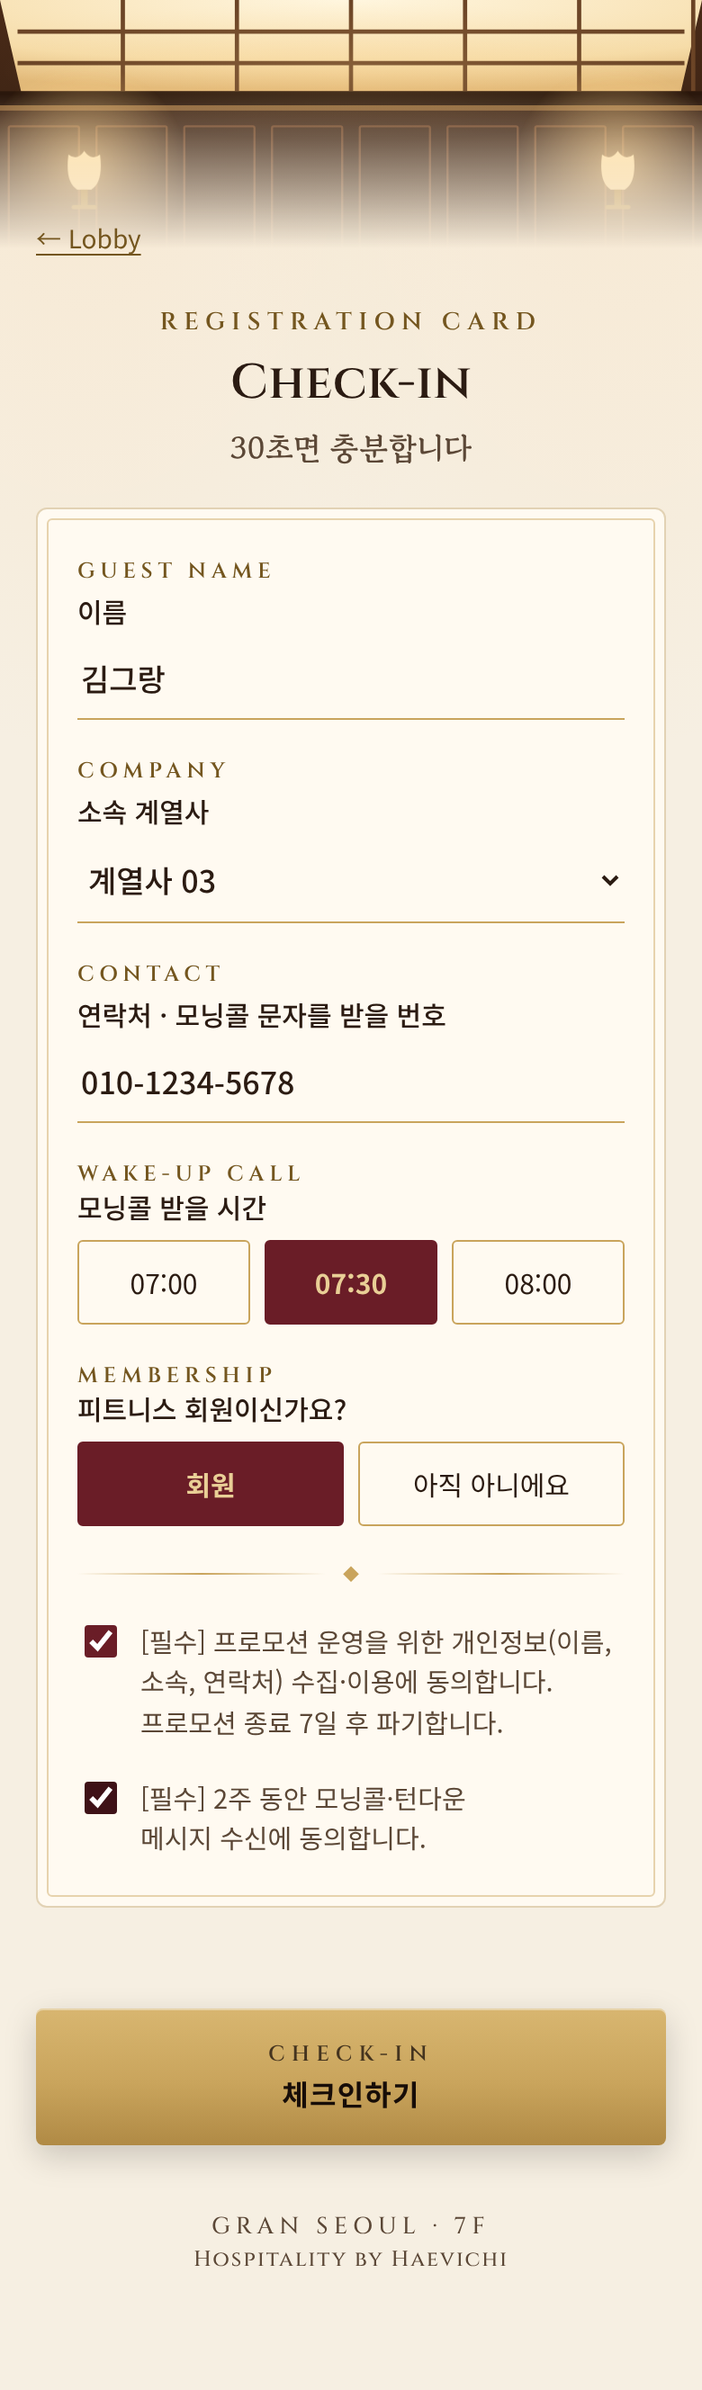
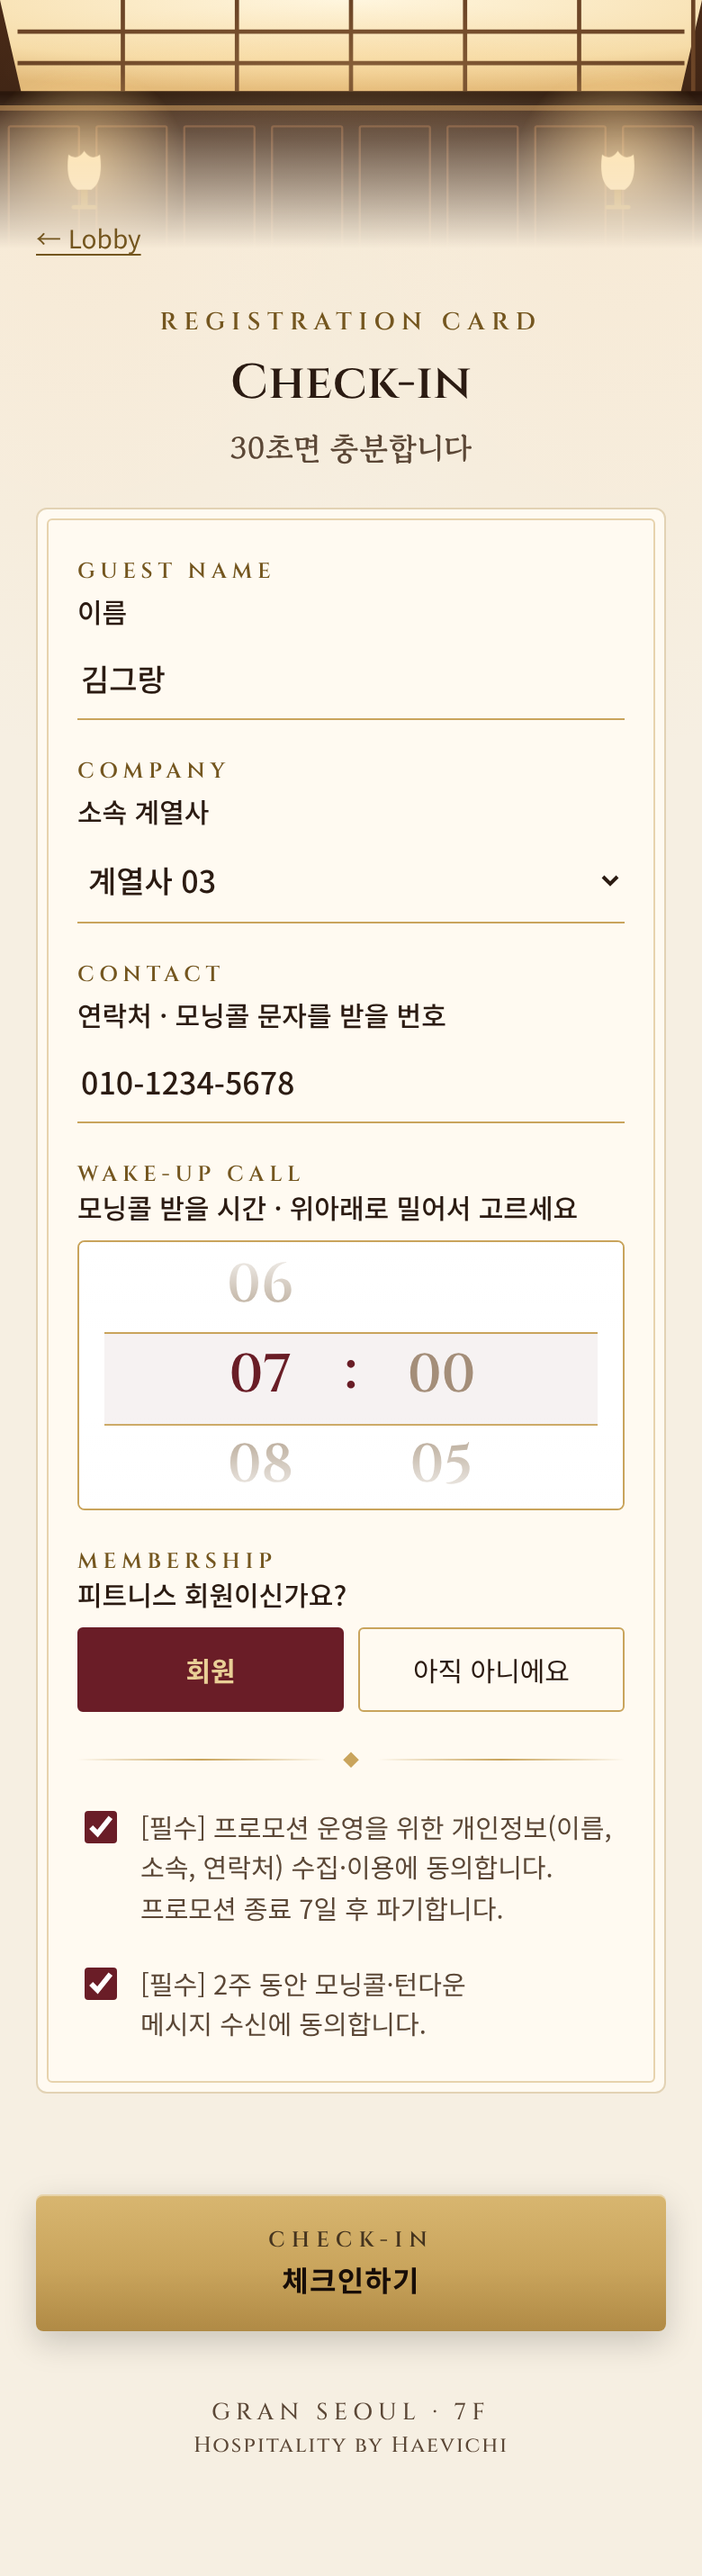
5-minute wake-up wheel, 2 seats per Morning Reset, brighter dark-page text
- Hour/minute scroll wheel 05:00-10:00 in 5-minute steps (default 07:00)
- Morning Reset capacity 2 per session, shown in the description
- Brighter, larger text on key card, check-in, Merci and player screens

Claude-Session: https://claude.ai/code/session_011z6wvs2Gb5um8vyCmLK585

diff --git a/index.html b/index.html
@@ -82,7 +82,7 @@ p,h1,h2,h3,label,.status{text-wrap:balance}
 .tag{display:inline-block;font-family:var(--en);font-size:12px;letter-spacing:.2em;text-transform:uppercase;font-weight:600;color:var(--brass-dark)}
 footer{text-align:center;font-family:var(--en);font-size:13px;color:var(--muted);padding:36px 0 8px;letter-spacing:.24em;text-transform:uppercase}
 footer i{font-style:normal;text-transform:none;letter-spacing:.08em;font-size:12px}
-.dark footer{color:rgba(201,164,92,.7)}
+.dark footer{color:var(--brass)}
 .banner{background:#fff3d9;border:1px solid #ecd6a6;border-radius:4px;padding:10px 14px;font-size:14px;color:#6b4a12}
 
 /* 아이보리 화면의 호텔 조명 */
@@ -106,7 +106,7 @@ body.dark #ceiling{display:none}
 .lift-ind .box span{color:#ffb36b;text-shadow:0 0 10px rgba(255,140,60,.8);font-variant-numeric:tabular-nums}
 .lift-ind .box em{font-style:normal;font-size:16px;color:#ffb36b}
 .lift-ind.ding .box{box-shadow:0 0 0 4px #3a2214,0 0 28px rgba(255,190,110,.75),inset 0 0 14px rgba(0,0,0,.8)}
-.lift-ind p{font-size:13px;letter-spacing:.4em;margin-top:12px;opacity:.85}
+.lift-ind p{font-size:14px;letter-spacing:.4em;margin-top:12px}
 .door{position:absolute;top:24%;bottom:24%;width:50%;z-index:2;transition:transform 1.2s cubic-bezier(.6,0,.3,1);
   background:linear-gradient(90deg,rgba(0,0,0,.25),transparent 30%,transparent 70%,rgba(0,0,0,.2)),var(--walnut-600);
   box-shadow:inset 0 0 0 10px var(--walnut-700),inset 0 0 0 11px var(--brass-dark)}
@@ -157,7 +157,7 @@ body.lobby #s-welcome :is(p,h2){text-shadow:0 1px 3px rgba(0,0,0,.9),0 2px 14px 
 #checkin.on{display:flex;animation:fadeIn .4s}
 #checkin .desk{width:min(440px,100%);box-shadow:none}
 #checkin .msg,#wbg .msg{font-family:var(--en);color:var(--brass-light);font-size:19px;letter-spacing:.06em;margin-top:18px;min-height:30px;text-align:center}
-#checkin .msg small,#wbg .msg small{display:block;font-family:var(--sans);font-size:13px;color:var(--brass);letter-spacing:0;margin-top:4px}
+#checkin .msg small,#wbg .msg small{display:block;font-family:var(--sans);font-size:15px;font-weight:500;color:var(--lamp);letter-spacing:0;margin-top:4px}
 .cubby-hl{opacity:0}
 #checkin.go .cubby-hl{animation:cubby 1.4s .5s ease forwards}
 @keyframes cubby{0%{opacity:0}40%,100%{opacity:1}}
@@ -180,6 +180,16 @@ label.f b{font-family:var(--en);font-size:12px;letter-spacing:.24em;text-transfo
 input[type=text],input[type=tel],select{border:0;border-bottom:1px solid var(--brass);background:transparent;border-radius:0;padding:10px 2px;font-size:17px;width:100%;color:var(--ink)}
 input:focus,select:focus{outline:none;border-bottom:2px solid var(--burgundy)}
 .choices{display:flex;gap:8px;flex-wrap:wrap}
+/* 모닝콜 시간 휠 (시 · 분을 위아래로 밀어서 선택) */
+.wheel{position:relative;display:flex;justify-content:center;align-items:center;gap:4px;height:150px;border:1px solid var(--brass);border-radius:4px;background:#fff;overflow:hidden}
+.wheel::before{content:'';position:absolute;left:14px;right:14px;top:50px;height:50px;border-top:1px solid var(--brass);border-bottom:1px solid var(--brass);background:rgba(106,29,39,.06);pointer-events:none}
+.wheel::after{content:'';position:absolute;inset:0;background:linear-gradient(#fff,rgba(255,255,255,0) 34%,rgba(255,255,255,0) 66%,#fff);pointer-events:none}
+.wcol{height:150px;width:86px;overflow-y:scroll;scroll-snap-type:y mandatory;scrollbar-width:none;-webkit-overflow-scrolling:touch;outline:none}
+.wcol::-webkit-scrollbar{display:none}
+.wcol div{height:50px;line-height:50px;text-align:center;scroll-snap-align:center;font-family:var(--en);font-size:30px;font-weight:600;color:#a8957f;cursor:pointer;transition:color .2s}
+.wcol div.sp{scroll-snap-align:none;cursor:default}
+.wcol div.on{color:var(--burgundy)}
+.wsep{font-family:var(--en);font-size:30px;font-weight:700;color:var(--burgundy);padding-bottom:4px}
 .choice{flex:1;min-width:88px;border:1px solid var(--brass);background:transparent;border-radius:3px;padding:12px 8px;text-align:center;cursor:pointer;font-size:15px}
 .choice[aria-pressed=true]{background:var(--burgundy);border-color:var(--burgundy);color:var(--brass-light);font-weight:700}
 .agree{display:flex;gap:10px;font-size:14.5px;align-items:flex-start;line-height:1.55;color:var(--muted)}
@@ -194,12 +204,12 @@ input:focus,select:focus{outline:none;border-bottom:2px solid var(--burgundy)}
   background:linear-gradient(170deg,#3a121a,#22080d);box-shadow:0 0 0 1px rgba(201,164,92,.5),0 10px 30px rgba(0,0,0,.5);color:var(--brass-light);text-align:center;
   animation:rise 1.1s .3s cubic-bezier(.3,0,.2,1) both}
 @keyframes rise{from{transform:translateY(34%)}to{transform:none}}
-.keycard .kc-top{display:flex;justify-content:space-between;font-family:var(--en);font-size:10px;letter-spacing:.24em;color:var(--brass)}
+.keycard .kc-top{display:flex;justify-content:space-between;font-family:var(--en);font-size:11px;letter-spacing:.24em;color:var(--brass)}
 .keycard .kc-top b{font-weight:600;color:var(--brass-light);line-height:1.1}
 .keycard .room{font-family:var(--en);font-size:14px;letter-spacing:.3em;margin-top:12px;color:var(--brass)}
 .keycard .room b{display:block;font-size:46px;letter-spacing:.04em;margin-top:4px;color:var(--brass-light);font-weight:600;line-height:1.05}
 .keycard .kc-checkin{display:inline-flex;align-items:baseline;gap:10px;margin-top:12px;padding:6px 14px;border-top:1px solid rgba(201,164,92,.45);border-bottom:1px solid rgba(201,164,92,.45)}
-.keycard .kc-checkin span{font-family:var(--en);font-size:10px;letter-spacing:.2em;color:var(--brass)}
+.keycard .kc-checkin span{font-family:var(--en);font-size:11px;letter-spacing:.2em;color:var(--brass-light)}
 .keycard .kc-checkin b{font-family:var(--en);font-size:18px;letter-spacing:.14em;color:#fff3dc;font-weight:600}
 .keycard .code{font-family:var(--en);font-size:24px;letter-spacing:.32em;font-weight:600;margin-top:8px;color:#fff3dc}
 .sleeve{position:absolute;left:0;right:0;bottom:0;height:50%;border-radius:4px;z-index:2;text-align:center;color:var(--brass-light);
@@ -209,7 +219,7 @@ input:focus,select:focus{outline:none;border-bottom:2px solid var(--burgundy)}
   display:flex;flex-direction:column;align-items:center;justify-content:flex-end;padding:0 0 22px}
 .sleeve svg{width:44px;height:96px;stroke:var(--brass);fill:none;stroke-width:1.3;margin-bottom:10px}
 .sleeve .brand{font-family:var(--en);letter-spacing:.34em;font-size:14px;font-weight:600}
-.sleeve .tagline{font-family:var(--en);letter-spacing:.3em;font-size:8px;opacity:.75;margin-top:4px}
+.sleeve .tagline{font-family:var(--en);letter-spacing:.24em;font-size:9px;opacity:.9;margin-top:4px}
 
 /* ---------------------------------------------------------
    내 객실 (Your Stay)
@@ -271,7 +281,7 @@ body.velvet{background:repeating-linear-gradient(90deg,#4a1219 0 14px,#5c1820 26
 .merci .gname{font-family:var(--serif);font-size:20px;font-weight:500;margin-top:14px}
 .merci .code{font-family:var(--en);font-size:26px;letter-spacing:.12em;font-weight:600;color:var(--brass-dark);margin:12px 0 4px}
 .merci .who{font-size:14px;color:var(--muted)}
-.velvet .note{color:var(--brass-light);opacity:.85}
+.velvet .note{color:var(--lamp);font-size:16px;font-weight:500}
 
 /* ---------------------------------------------------------
    재생 화면
@@ -285,16 +295,16 @@ body.velvet{background:repeating-linear-gradient(90deg,#4a1219 0 14px,#5c1820 26
 .ptop{top:0;padding-top:max(20px,env(safe-area-inset-top));background:linear-gradient(180deg,rgba(0,0,0,.6),transparent)}
 .pbottom{bottom:0;flex-direction:column;align-items:stretch;padding-bottom:max(24px,env(safe-area-inset-bottom));background:linear-gradient(0deg,rgba(0,0,0,.7),transparent)}
 #player.idle .ptop,#player.idle .pbottom{opacity:0}
-.pbtn{border:1px solid rgba(201,164,92,.45);background:rgba(20,10,6,.45);color:var(--brass-light);border-radius:99px;padding:9px 16px;cursor:pointer;font-size:14px}
+.pbtn{border:1px solid rgba(201,164,92,.6);background:rgba(20,10,6,.55);color:var(--brass-light);border-radius:99px;padding:10px 16px;cursor:pointer;font-size:15px;font-weight:500}
 .pbtn.big{width:66px;height:66px;padding:0;font-size:22px;background:linear-gradient(180deg,#e7cd92,#b8924a);color:var(--walnut-900);border:0}
 .ptitle{flex:1}
 .ptitle b{display:block;font-family:var(--serif);font-weight:500;font-size:18px}
-.ptitle span{font-size:13px;opacity:.8}
+.ptitle span{font-size:14.5px;opacity:.95;font-weight:500}
 .pctl{display:flex;justify-content:center;align-items:center;gap:16px}
 .bar{height:3px;background:rgba(255,255,255,.22);border-radius:4px;overflow:hidden}
 .bar i{display:block;height:100%;background:var(--brass);width:0}
-.times{display:flex;justify-content:space-between;font-size:12px;opacity:.75}
-#cap{position:absolute;left:0;right:0;bottom:34%;text-align:center;padding:0 24px;font-size:18px;line-height:1.5;text-shadow:0 1px 8px rgba(0,0,0,.8);opacity:0;transition:opacity .5s}
+.times{display:flex;justify-content:space-between;font-size:13.5px;opacity:.92;font-weight:500}
+#cap{position:absolute;left:0;right:0;bottom:34%;text-align:center;padding:0 24px;font-size:19px;font-weight:500;word-break:keep-all;text-wrap:balance;line-height:1.5;text-shadow:0 1px 8px rgba(0,0,0,.8);opacity:0;transition:opacity .5s}
 #cap.on{opacity:1}
 
 @media (prefers-reduced-motion:reduce){*,*::before,*::after{animation:none!important;transition:none!important}}
@@ -385,7 +395,8 @@ body.velvet{background:repeating-linear-gradient(90deg,#4a1219 0 14px,#5c1820 26
       <label class="f"><b>Guest Name</b>이름<input type="text" id="fName" autocomplete="name" placeholder="홍길동"></label>
       <label class="f"><b>Company</b>소속 계열사<select id="fCompany"></select></label>
       <label class="f"><b>Contact</b>연락처 · 모닝콜 문자를 받을 번호<input type="tel" id="fPhone" inputmode="numeric" autocomplete="tel" placeholder="010-0000-0000"></label>
-      <div class="f stack" style="gap:8px"><label class="f" style="gap:0"><b>Wake-up Call</b>모닝콜 받을 시간</label><div class="choices" id="fTime"></div></div>
+      <div class="f stack" style="gap:8px"><label class="f" style="gap:0"><b>Wake-up Call</b>모닝콜 받을 시간 · 위아래로 밀어서 고르세요</label>
+        <div class="wheel" id="fTime"><div class="wcol" id="wHour" tabindex="0" aria-label="시"></div><span class="wsep">:</span><div class="wcol" id="wMin" tabindex="0" aria-label="분"></div></div></div>
       <div class="f stack" style="gap:8px"><label class="f" style="gap:0"><b>Membership</b>피트니스 회원이신가요?</label>
         <div class="choices" id="fMember"><button class="choice" data-v="회원">회원</button><button class="choice" data-v="비회원">아직 아니에요</button></div></div>
       <div class="rule">◆</div>
@@ -473,7 +484,7 @@ body.velvet{background:repeating-linear-gradient(90deg,#4a1219 0 14px,#5c1820 26
 
     <div class="card stack" style="gap:6px">
       <div class="row" style="justify-content:space-between"><span class="en" style="font-size:16px">Morning Reset 15</span><span class="small muted">화·목 출근 전</span></div>
-      <p class="small muted">7층 피트니스 GX룸 · 정장 차림 그대로 · 선착순</p>
+      <p class="small muted" id="resetNote"></p>
       <div id="slots"></div>
     </div>
 
@@ -540,7 +551,7 @@ const CONFIG = {
   days: 14,
   goal: 10,                      // 완주 기준: 모닝콜 + 턴다운을 합쳐 몇 번 들으면 완주인지
   dailyLimit: 2,                 // 하루 인증 최대 횟수 (모닝콜 1번 + 턴다운 1번)
-  morningTimes: ['07:00', '07:30', '08:00'],
+  wake: { from: 5, to: 10, step: 5, initial: '07:00' },   // 모닝콜 시간: 5시~10시, 5분 단위, 처음 보이는 시간 7:00
   companies: [   // 임시 이름입니다. 실제 30개 계열사 명단으로 바꿔주세요
     '계열사 01', '계열사 02', '계열사 03', '계열사 04', '계열사 05', '계열사 06', '계열사 07', '계열사 08', '계열사 09', '계열사 10',
     '계열사 11', '계열사 12', '계열사 13', '계열사 14', '계열사 15', '계열사 16', '계열사 17', '계열사 18', '계열사 19', '계열사 20',
@@ -553,7 +564,7 @@ const CONFIG = {
     { id: 'sleep',   name: '수면실 1회 이용권',         desc: '수면실 1회 예약 이용' },
     { id: 'amenity', name: '어메니티 3종',              desc: '샴푸 · 바디워시 · 바디로션' }
   ],
-  stretch: { time: '08:20~08:35', weekdays: [2, 4], capacity: 15 },  // 2=화, 4=목
+  stretch: { time: '08:20~08:35', weekdays: [2, 4], capacity: 2 },  // 2=화, 4=목 · capacity: 하루(회차)당 자리 수
   serverUrl: ''                // 구글 Apps Script 웹앱 주소. 비워두면 데모 모드(새로고침하면 기록이 사라짐)
 };
 
@@ -930,6 +941,7 @@ function show(name) {
   document.body.className = name === 'welcome' ? 'dark lobby' : name === 'home' ? 'dark' : name === 'ticket' ? 'dark velvet' : '';
   if (name === 'me') renderMe();
   if (name === 'gift') renderGifts();
+  if (name === 'signup') requestAnimationFrame(initWheel);   // 화면이 보인 뒤에 휠 위치를 맞춤
 }
 document.addEventListener('click', e => { const b = e.target.closest('[data-go]'); if (b) show(b.dataset.go); });
 
@@ -1061,15 +1073,39 @@ function playCheckin(room) {
 }
 
 /* --- 신청서 --- */
+$('resetNote').textContent = `7층 피트니스 GX룸 · 정장 차림 그대로 · 회차당 ${CONFIG.stretch.capacity}명 선착순`;
 $('fCompany').innerHTML = '<option value="">선택해주세요</option>' + CONFIG.companies.map(c => `<option>${c}</option>`).join('');
-$('fTime').innerHTML = CONFIG.morningTimes.map(t => `<button class="choice" data-v="${t}">${t}</button>`).join('');
+/* 모닝콜 시간 휠 */
+const wakeSel = { h: CONFIG.wake.initial.slice(0, 2), m: CONFIG.wake.initial.slice(3) };
+const pad2 = n => String(n).padStart(2, '0');
+const WH = 50;   // 한 칸 높이 (CSS .wcol div 높이와 같아야 함)
+function buildCol(col, values, key) {
+  col.innerHTML = '<div class="sp"></div>' + values.map(v => `<div data-v="${v}">${v}</div>`).join('') + '<div class="sp"></div>';
+  let t;
+  col.addEventListener('scroll', () => {
+    const i = Math.max(0, Math.min(values.length - 1, Math.round(col.scrollTop / WH)));
+    wakeSel[key] = values[i];
+    col.querySelectorAll('[data-v]').forEach((d, j) => d.classList.toggle('on', j === i));
+    clearTimeout(t); t = setTimeout(() => {   // 마지막 시각(10:00) 뒤로는 못 가게
+      if (+wakeSel.h === CONFIG.wake.to && wakeSel.m !== '00') setCol($('wMin'), '00');
+    }, 150);
+  });
+  col.addEventListener('click', e => { const d = e.target.closest('[data-v]'); if (d) setCol(col, d.dataset.v, true); });
+}
+function setCol(col, v, smooth) {
+  const i = [...col.querySelectorAll('[data-v]')].findIndex(d => d.dataset.v === v);
+  col.scrollTo({ top: i * WH, behavior: smooth ? 'smooth' : 'auto' });
+}
+buildCol($('wHour'), Array.from({ length: CONFIG.wake.to - CONFIG.wake.from + 1 }, (_, i) => pad2(CONFIG.wake.from + i)), 'h');
+buildCol($('wMin'), Array.from({ length: 60 / CONFIG.wake.step }, (_, i) => pad2(i * CONFIG.wake.step)), 'm');
+function initWheel() { setCol($('wHour'), wakeSel.h); setCol($('wMin'), wakeSel.m); }
 document.querySelectorAll('.choices').forEach(group => group.addEventListener('click', e => {
   const b = e.target.closest('.choice'); if (!b) return;
   group.querySelectorAll('.choice').forEach(x => x.setAttribute('aria-pressed', x === b));
 }));
 const picked = id => $(id).querySelector('[aria-pressed=true]')?.dataset.v;
 $('fSubmit').onclick = async () => {
-  const u = { name: $('fName').value.trim(), company: $('fCompany').value, phone: digits($('fPhone').value), morningTime: picked('fTime'), member: picked('fMember') };
+  const u = { name: $('fName').value.trim(), company: $('fCompany').value, phone: digits($('fPhone').value), morningTime: `${wakeSel.h}:${wakeSel.m}`, member: picked('fMember') };
   const err = !u.name ? '이름을 입력해주세요' : !u.company ? '계열사를 선택해주세요' : !/^01\d{8,9}$/.test(u.phone) ? '연락처를 확인해주세요' : !u.morningTime ? '모닝콜 시간을 골라주세요' : !u.member ? '회원 여부를 골라주세요' : !($('fAgree1').checked && $('fAgree2').checked) ? '필수 동의 항목에 체크해주세요' : '';
   $('fErr').textContent = err; if (err) return;
   $('fSubmit').disabled = true;
